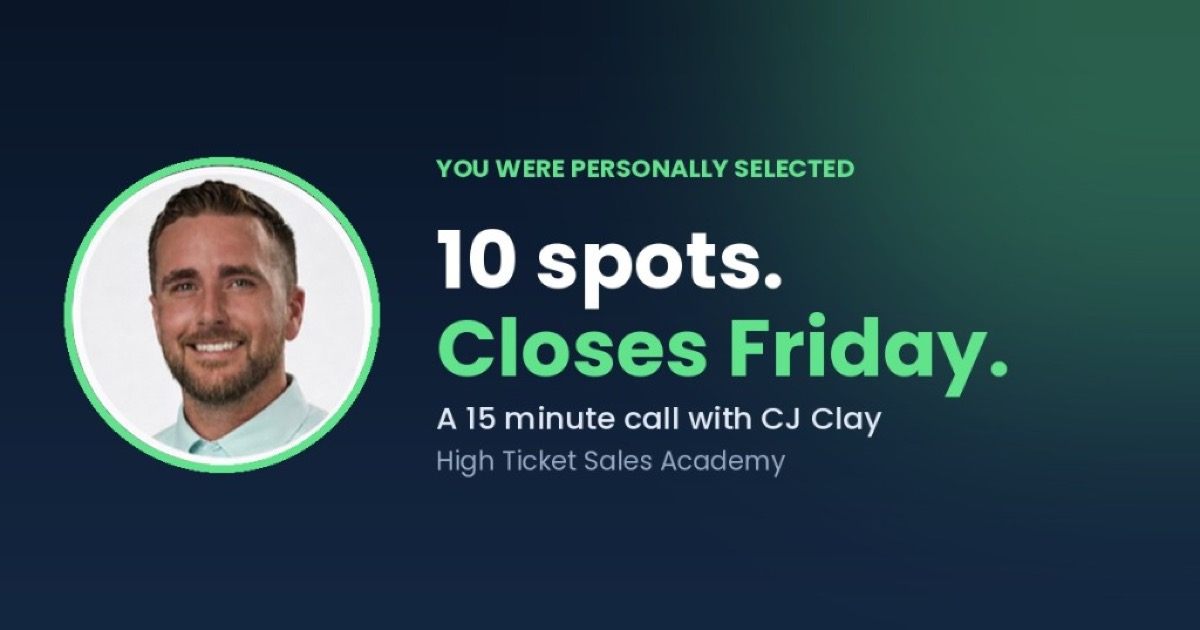
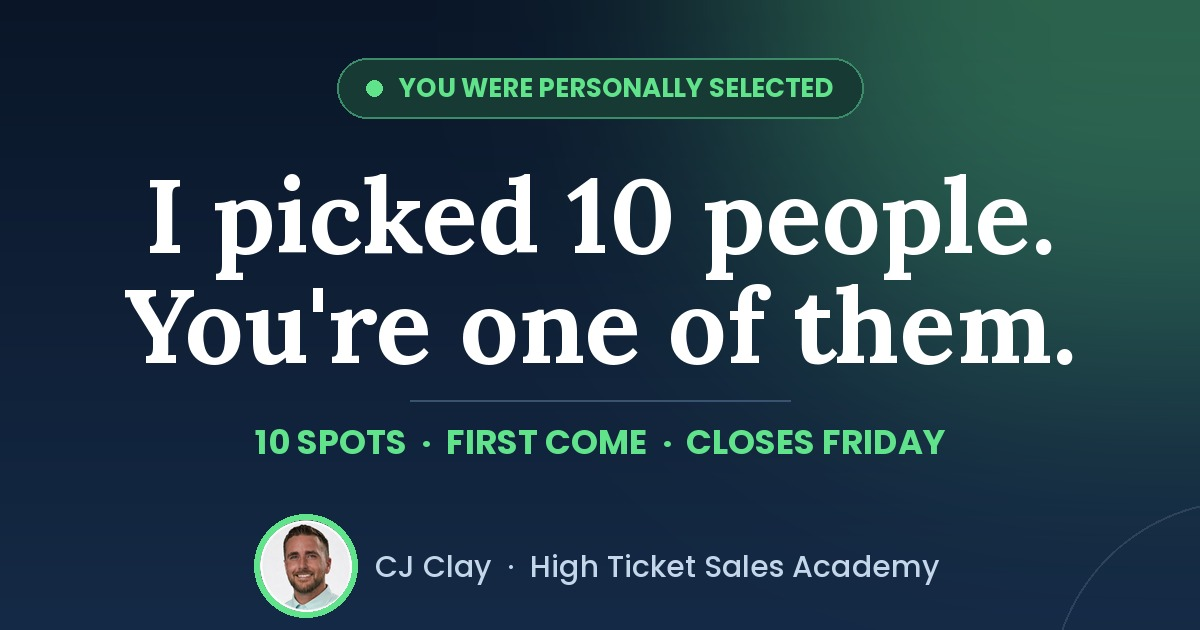
Publish the special-offer booking page

diff --git a/special-offer-book-with-cj.html b/special-offer-book-with-cj.html
@@ -6,7 +6,7 @@
   <meta name="viewport" content="width=device-width, initial-scale=1.0">
   <meta name="theme-color" content="#0a1628">
   <meta property="og:type" content="website">
-  <meta property="og:url" content="https://closewithcjclay.com/reactivation/book-with-cj-v3.html">
+  <meta property="og:url" content="https://closewithcjclay.com/special-offer-book-with-cj.html">
   <meta property="og:title" content="Your private invitation — 10 spots, closes Friday">
   <meta property="og:description" content="CJ Clay · High Ticket Sales Academy · A 15-minute call, and I'll walk you through what I was able to put together for you.">
   <meta property="og:image" content="https://closewithcjclay.com/reactivation/og-invite.jpg?v=20260830">
@@ -16,7 +16,6 @@
   <meta name="twitter:title" content="Your private invitation — 10 spots, closes Friday">
   <meta name="twitter:description" content="CJ Clay · High Ticket Sales Academy · A 15-minute call.">
   <meta name="twitter:image" content="https://closewithcjclay.com/reactivation/og-invite.jpg?v=20260830">
-  <!-- TODO: Create /reactivation/og-invite.jpg at exactly 1200 by 630 pixels. -->
   <title>Your Private Invitation | CJ Clay · High Ticket Sales Academy</title>
   <link rel="preconnect" href="https://fonts.googleapis.com">
   <link rel="preconnect" href="https://fonts.gstatic.com" crossorigin>
